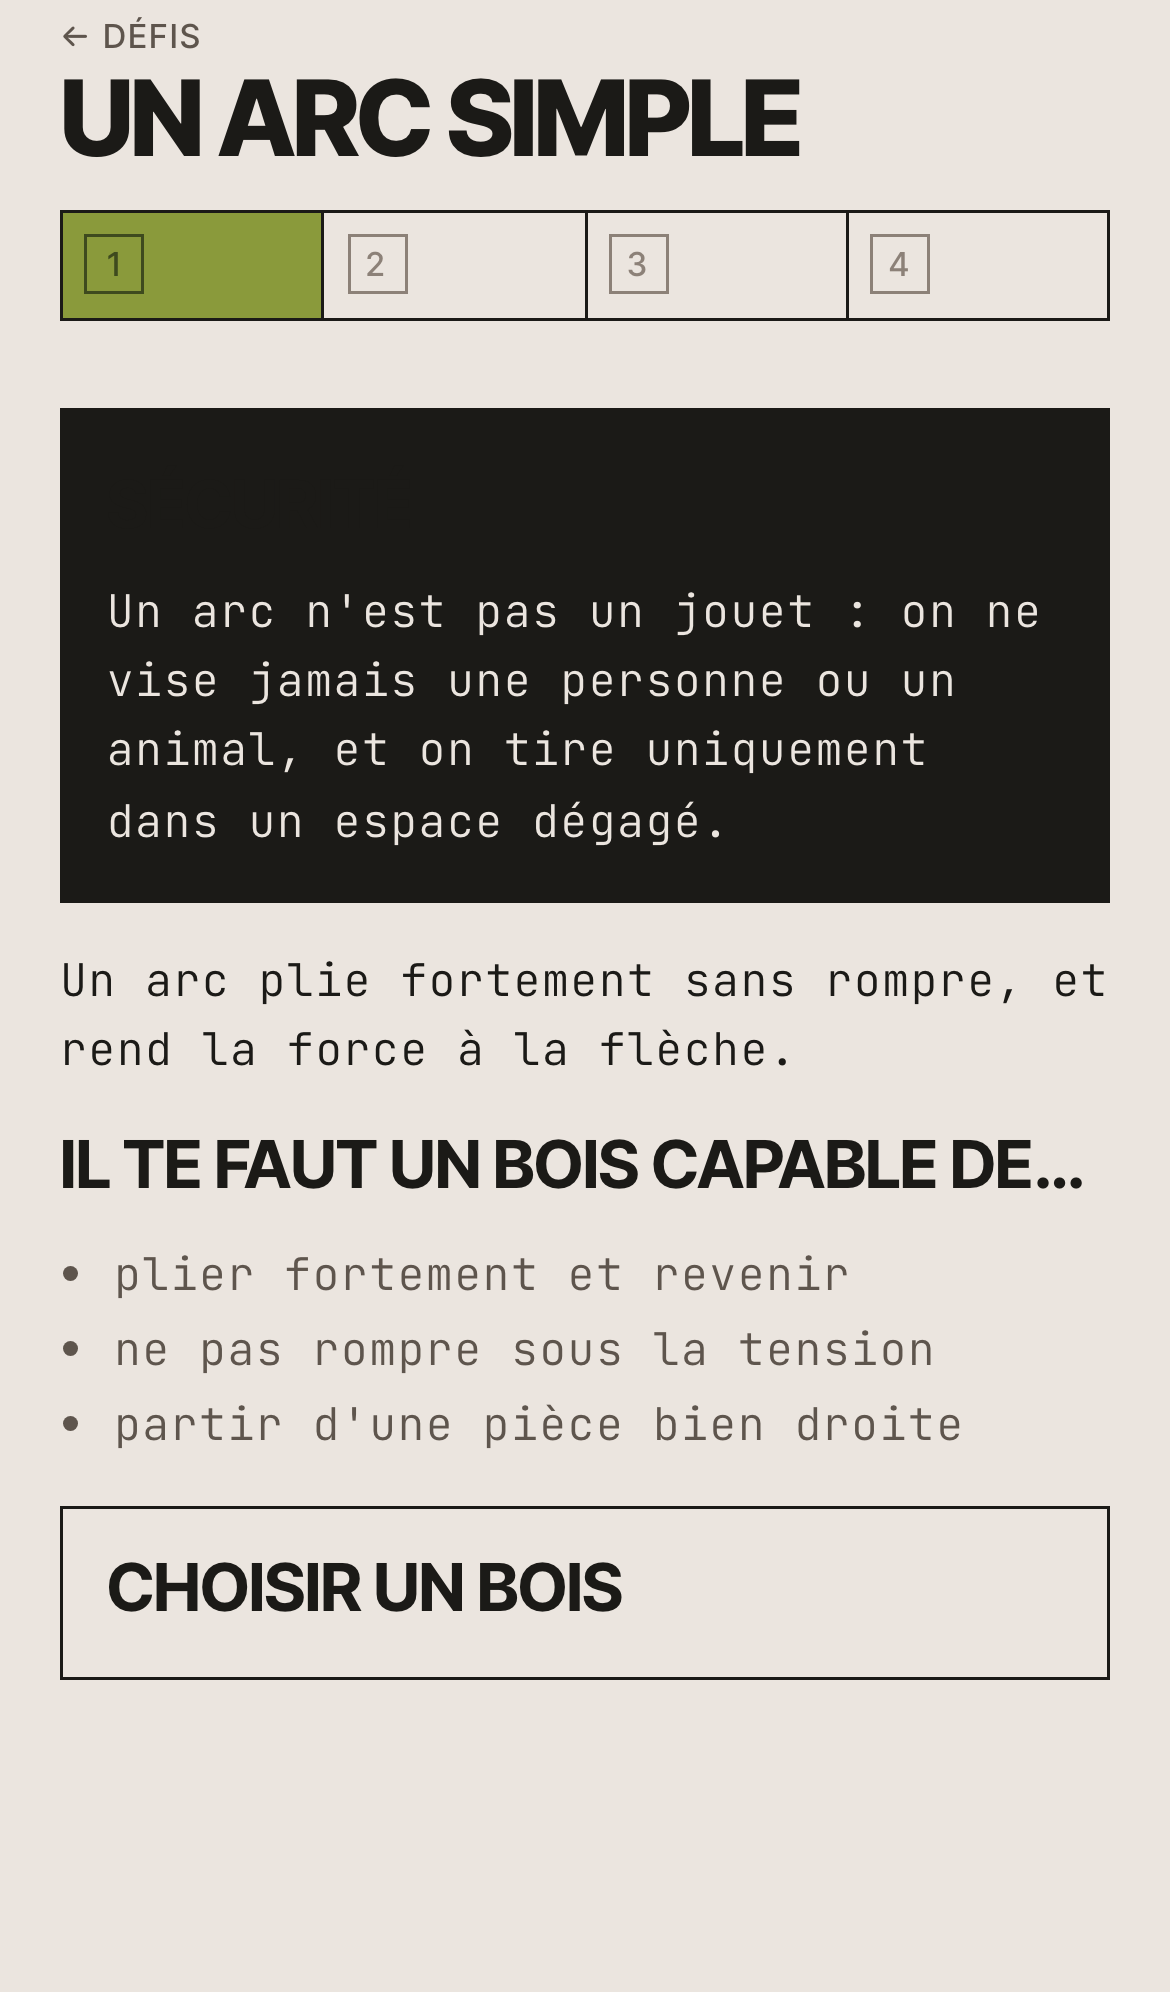
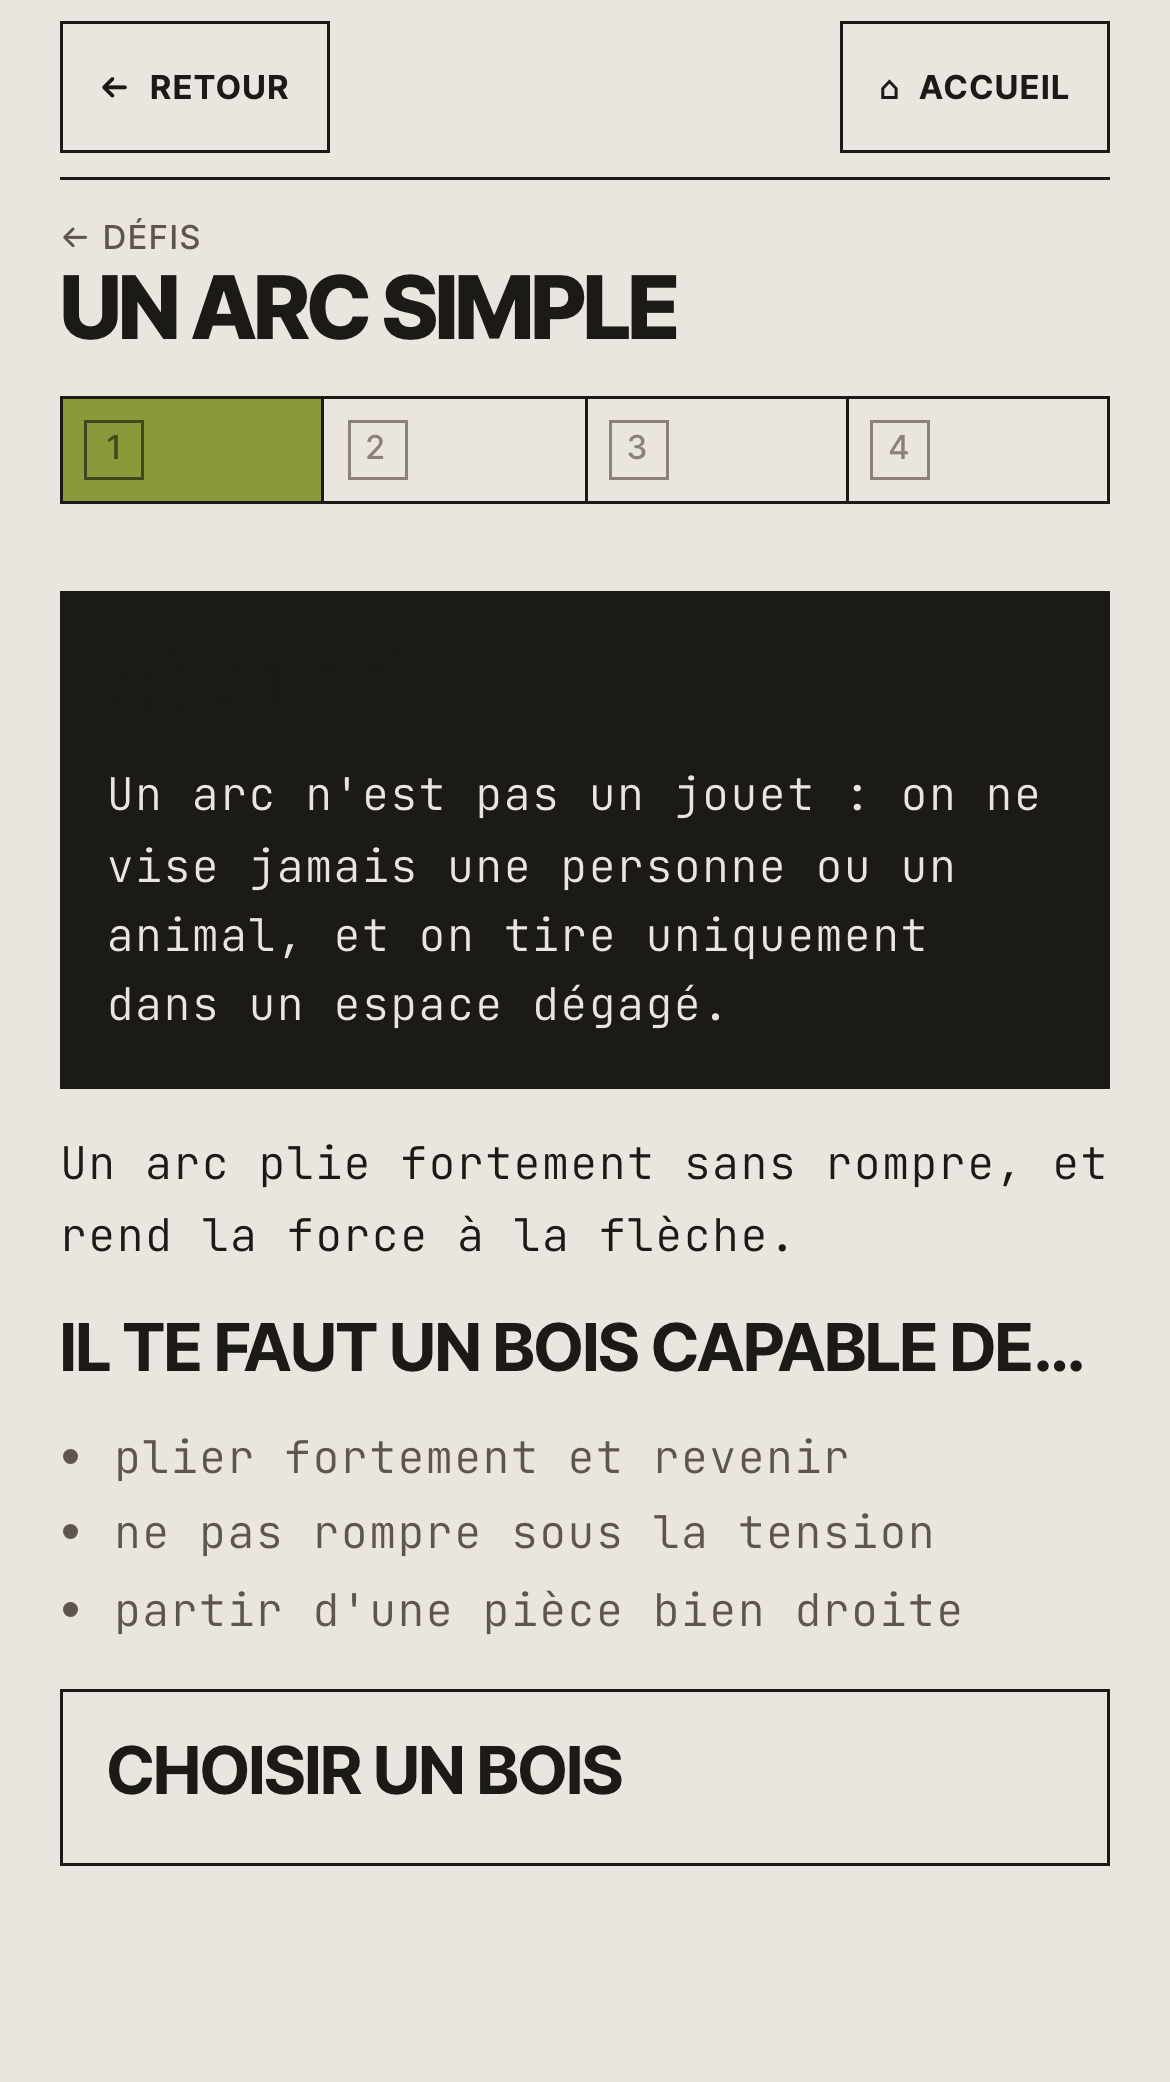
feat(nav): en-tête à boutons + corrections d'affichage mobile
- AppHeader (Retour / Accueil) sur les sous-pages, route /identifier sans paramètre
- accueil : coupe clippée (overflow hidden, mise à l'échelle) → fin du scroll horizontal
- registre : planche remise à l'échelle pour tenir sur mobile
- titres : coupure de mot + tailles réduites sous 400px
- 0 débordement horizontal sur les 13 routes (390px), 105 tests + 11 e2e verts

diff --git a/src/views/AccueilView.vue b/src/views/AccueilView.vue
@@ -19,16 +19,19 @@
       <p class="accueil__sous-titre t-mono">Module 01 — Bois</p>
     </header>
 
-    <!-- Grande coupe du frêne, révélée en escalier, qui déborde à droite. -->
+    <!-- Grande coupe du frêne, révélée en escalier, qui déborde à droite.
+         Le conteneur masque le débordement : effet « bleed » sans scroll horizontal. -->
     <div class="accueil__visuel" aria-hidden="true">
-      <GridReveal
-        :cols="REVEAL_COLS"
-        :rows="REVEAL_ROWS"
-        :seed="[0, REVEAL_ROWS - 1]"
-        :mask="masqueEscalier"
-      >
-        <CoupeTransversale type="zone-poreuse" :seed="101" />
-      </GridReveal>
+      <div class="accueil__visuel-inner">
+        <GridReveal
+          :cols="REVEAL_COLS"
+          :rows="REVEAL_ROWS"
+          :seed="[0, REVEAL_ROWS - 1]"
+          :mask="masqueEscalier"
+        >
+          <CoupeTransversale type="zone-poreuse" :seed="101" />
+        </GridReveal>
+      </div>
     </div>
 
     <!-- Ligne de méthode. -->
@@ -146,15 +149,23 @@ async function nouveauSpecimen(): Promise<void> {
   color: var(--ink-2);
 }
 
-/* Grande coupe qui déborde du bord droit. */
+/* Grande coupe qui déborde du bord droit, mais clippée pour éviter le scroll
+   horizontal (overflow hidden). La coupe est mise à l'échelle sur la largeur
+   disponible. */
 .accueil__visuel {
   position: relative;
   z-index: 0;
-  width: calc(5 * var(--cell));
-  /* Déborde du bord droit, comme le rocher de la réf. A. */
-  margin-right: calc(-1.5 * var(--cell));
-  margin-left: auto;
+  width: 100%;
+  overflow: hidden;
   margin-top: calc(-0.5 * var(--cell));
+}
+
+.accueil__visuel-inner {
+  /* Largeur bornée à la colonne : la coupe ne peut pas être plus large que l'écran. */
+  width: min(calc(5 * var(--cell)), 86vw);
+  margin-left: auto;
+  /* Déborde légèrement à droite (réf. A) ; le parent clippe le surplus. */
+  margin-right: calc(-1 * var(--minor));
 }
 
 /* Ligne de méthode. */

diff --git a/src/components/ui/AppShell.vue b/src/components/ui/AppShell.vue
@@ -1,15 +1,18 @@
 <template>
   <div class="app-shell">
     <main class="app-shell__main">
-      <div class="app-shell__inner">
-        <slot />
+      <AppHeader v-if="showHeader" />
+      <div class="app-shell__body">
+        <div class="app-shell__inner">
+          <slot />
+        </div>
+        <VerticalLabel
+          v-if="label"
+          class="app-shell__label"
+          :title="label"
+          :subtitle="sublabel"
+        />
       </div>
-      <VerticalLabel
-        v-if="label"
-        class="app-shell__label"
-        :title="label"
-        :subtitle="sublabel"
-      />
     </main>
     <BottomNav v-if="showNav" />
   </div>
@@ -26,6 +29,7 @@ import { computed } from 'vue'
 import { useRoute } from 'vue-router'
 import { useDemoStore } from '@/stores/demo'
 import BottomNav from './BottomNav.vue'
+import AppHeader from './AppHeader.vue'
 import VerticalLabel from './VerticalLabel.vue'
 
 const props = withDefaults(
@@ -47,6 +51,11 @@ const showNav = computed(() => {
   // Masquée en mode démo plein écran (route /demo ou démo active qui navigue ailleurs).
   return !route.path.startsWith('/demo') && !demo.actif
 })
+
+// En-tête (boutons Retour / Accueil) : partout sauf l'accueil et le mode démo.
+const showHeader = computed(
+  () => route.path !== '/' && !route.path.startsWith('/demo') && !demo.actif,
+)
 </script>
 
 <style scoped>
@@ -60,11 +69,19 @@ const showNav = computed(() => {
   position: relative;
   flex: 1 1 auto;
   display: flex;
+  flex-direction: column;
   padding-top: var(--safe-top);
   padding-left: calc(var(--margin) + var(--safe-left));
   padding-right: calc(var(--margin) + var(--safe-right));
   /* Dégage la navigation basse (hauteur + safe-area). */
   padding-bottom: calc(72px + var(--safe-bottom));
+}
+
+/* Corps : contenu principal + titre vertical (marge droite). */
+.app-shell__body {
+  position: relative;
+  flex: 1 1 auto;
+  display: flex;
 }
 
 .app-shell__inner {

diff --git a/src/components/ui/AppHeader.vue b/src/components/ui/AppHeader.vue
@@ -1,0 +1,64 @@
+<template>
+  <nav class="app-header" aria-label="Navigation">
+    <button class="app-header__btn" type="button" @click="retour">
+      <span aria-hidden="true">←</span> Retour
+    </button>
+    <RouterLink class="app-header__btn app-header__btn--home" to="/">
+      <span aria-hidden="true">⌂</span> Accueil
+    </RouterLink>
+  </nav>
+</template>
+
+<script setup lang="ts">
+/**
+ * AppHeader — navigation par boutons en haut de l'écran (Retour / Accueil).
+ * Montée par AppShell sur toutes les vues sauf l'accueil et le mode démo.
+ */
+import { useRouter } from 'vue-router'
+
+const router = useRouter()
+
+function retour(): void {
+  // Revient en arrière si possible, sinon ramène à l'accueil.
+  if (window.history.length > 1) router.back()
+  else router.push('/')
+}
+</script>
+
+<style scoped>
+.app-header {
+  display: flex;
+  gap: var(--minor);
+  align-items: center;
+  padding: calc(var(--minor) / 2) 0;
+  margin-bottom: calc(var(--minor) / 2);
+  border-bottom: var(--line) solid var(--ink);
+}
+
+.app-header__btn {
+  display: inline-flex;
+  align-items: center;
+  gap: 6px;
+  min-height: 44px;
+  padding: 0 12px;
+  color: var(--ink);
+  background: transparent;
+  border: var(--line) solid var(--ink);
+  font-family: var(--font-display);
+  font-weight: 700;
+  font-size: var(--fs-label);
+  letter-spacing: 0.06em;
+  text-transform: uppercase;
+  text-decoration: none;
+  cursor: pointer;
+}
+
+.app-header__btn:active {
+  background: var(--ink);
+  color: var(--paper);
+}
+
+.app-header__btn--home {
+  margin-left: auto;
+}
+</style>

diff --git a/src/router/index.ts b/src/router/index.ts
@@ -4,7 +4,8 @@ const routes: RouteRecordRaw[] = [
   { path: '/', name: 'accueil', component: () => import('@/views/AccueilView.vue') },
   { path: '/observer', name: 'observer', component: () => import('@/views/ObserverView.vue') },
   { path: '/observer/:specimenId', name: 'observer-specimen', component: () => import('@/views/ObserverView.vue'), props: true },
-  { path: '/identifier/:specimenId', name: 'identifier', component: () => import('@/views/IdentifierView.vue'), props: true },
+  { path: '/identifier', name: 'identifier', component: () => import('@/views/IdentifierView.vue') },
+  { path: '/identifier/:specimenId', name: 'identifier-specimen', component: () => import('@/views/IdentifierView.vue'), props: true },
   { path: '/atlas', name: 'atlas', component: () => import('@/views/AtlasView.vue') },
   { path: '/atlas/:essenceId', name: 'essence', component: () => import('@/views/EssenceView.vue'), props: true },
   { path: '/defis', name: 'defis', component: () => import('@/views/DefisView.vue') },

diff --git a/src/styles/base.css b/src/styles/base.css
@@ -44,6 +44,9 @@ h3 {
   font-family: var(--font-display);
   text-transform: uppercase;
   color: var(--ink);
+  /* Les longs titres se coupent proprement plutôt que de déborder sur mobile. */
+  overflow-wrap: break-word;
+  hyphens: auto;
 }
 
 h1 {
@@ -64,6 +67,14 @@ h3 {
   font-weight: 700;
   font-size: var(--fs-body);
   letter-spacing: -0.01em;
+}
+
+/* Écrans étroits : titres un peu plus compacts pour rester lisibles et contenus. */
+@media (max-width: 400px) {
+  :root {
+    --fs-display: clamp(40px, 11.5vw, 104px);
+    --fs-h1: clamp(28px, 7.5vw, 56px);
+  }
 }
 
 p {

diff --git a/src/views/RegistreView.vue b/src/views/RegistreView.vue
@@ -56,6 +56,13 @@ const rows = computed(() => Math.max(8, registre.length * 6))
 </script>
 
 <style scoped>
+/* La planche fait 12 colonnes (défaut de Plate) + règles ; sur mobile le --cell
+   du socle la ferait déborder. On recalcule un --cell local pour qu'elle tienne
+   dans la largeur, sans scroll horizontal. */
+.registre {
+  --cell: calc((min(100vw, 1280px) - 2 * var(--margin)) / 13);
+}
+
 .registre__contenu {
   display: flex;
   flex-direction: column;

diff --git a/docs/DECISIONS.md b/docs/DECISIONS.md
@@ -137,3 +137,19 @@ Journal des décisions prises en autonomie pendant la construction (section 3 de
 - Choix : on conserve les espaces ordinaires (et non des espaces insécables) avant la
   ponctuation double, cohérent avec le texte de SPEC.md et avec les assertions e2e
   (« Proposition : Frêne commun »).
+
+## Post-livraison — Navigation et mobile
+
+- **Navigation par boutons** : ajout d'un en-tête `AppHeader` (boutons « ← Retour » et
+  « ⌂ Accueil ») monté par `AppShell` sur toutes les vues sauf l'accueil et le mode démo,
+  en plus de la `BottomNav`. Route `/identifier` (sans paramètre) ajoutée pour que le lien
+  « Identifier » de la nav basse résolve ; la route avec paramètre devient `identifier-specimen`
+  (les liens existants sont basés sur le chemin, donc inchangés).
+- **Scroll horizontal mobile corrigé** :
+  - Accueil : la coupe qui déborde est désormais dans un conteneur `overflow: hidden` et bornée
+    à `min(5·cell, 86vw)` → effet « bleed » conservé, sans scroll (débordait de 68 px).
+  - Registre : la planche (12 colonnes par défaut de `Plate`) débordait de 360 px sur mobile ;
+    `--cell` recalculé localement (/13) pour qu'elle tienne dans la largeur.
+- **Taille des titres sur mobile** : `overflow-wrap: break-word` + `hyphens` sur h1/h2/h3, et
+  sous 400 px, `--fs-display`/`--fs-h1` légèrement réduits. Vérifié : 0 px de débordement
+  horizontal sur les 13 routes à 390 px.
